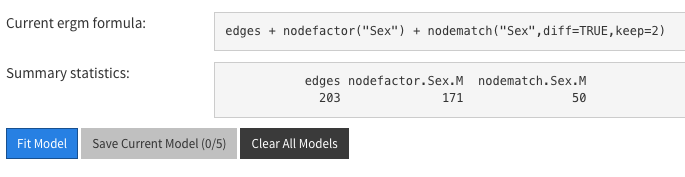
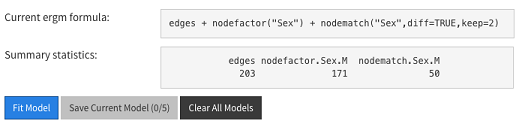
polishing log reg

diff --git a/sW.css b/sW.css
@@ -14,7 +14,7 @@ div.ex {
   border: 1px solid gray;
   border-radius: 5px;
   padding: 5px;
-  background-color: #F0F0F0;
+  background-color: #F5F5F5;
 }
 div.cols {
   -webkit-column-count: 2; /* Chrome, Safari, Opera */
